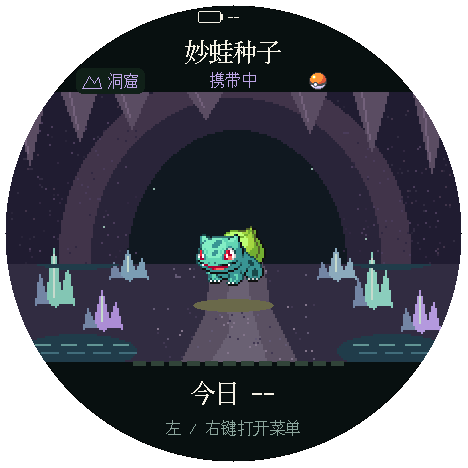
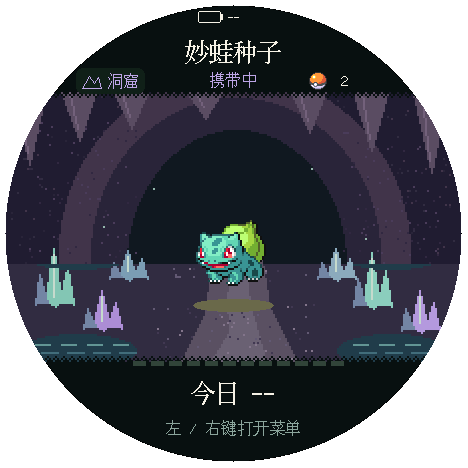
docs(readme): 截图与说明更新到当前版本
七张截图改用 2026-11-02 的 649 种版本主机渲染：对战显示角色提示圈与音符轨道，投球显示剩余球位，首页与路线显示已捕获种数，图鉴编号为 001／649。中英文 README 同步更新玩法要点、替代文字与画面来源表，并链接新的对战与投球文档。

Changed region(s): [[0.0897, 0.7479, 0.8974, 0.7778], [0.1197, 0.1795, 0.8974, 0.2094], [0.4188, 0.4786, 0.5684, 0.5983]]

diff --git a/README.md b/README.md
@@ -7,7 +7,7 @@
 带着伙伴走路，遇见宝可梦，用节奏对战和投球完成捕捉。<br>
 运行在 M5Stack StopWatch（C152）圆屏上的离线步行探险。
 
-<img src="docs/images/readme/home.png" width="360" alt="圆屏首页：妙蛙种子站在森林路线上，标注携带中，下方为今日 4 步。主机 Runtime/M5GFX 渲染，不是实机拍摄。">
+<img src="docs/images/readme/home.png" width="360" alt="圆屏首页：妙蛙种子站在森林路线上，标注携带中，球图标旁显示已捕获 0 种，下方为今日 4 步。主机 Runtime/M5GFX 渲染，不是实机拍摄。">
 
 [开始使用](#开始使用) · [桌面模拟](#桌面模拟) · [构建和烧录](#构建和烧录) · [开发指南](docs/development.md) · [验证说明](docs/verification.md)
 
@@ -18,14 +18,14 @@
 ## 玩法
 
 - **走路探险**：森林、海边、洞窟三条路线，遭遇池各不相同。每走 200–500 步（随机）产生一次遭遇。
-- **节奏对战与捕捉**：按节拍攻击或躲避，胜利后最多投两球；精灵球不限量。成功捕获后该种永久退出遭遇池。
+- **节奏对战与捕捉**：提示圈圈住对手就按右键攻击，圈住伙伴就按左键躲避，底部轨道预告下一拍。胜利后最多投两球；精灵球不限量。成功捕获后该种永久退出遭遇池。
 - **伙伴培养**：一次携带一只，只有携带者获得培养步，达到条件后手动进化。
 - **图鉴**：自由浏览全国图鉴 1～649，涵盖关都、城都、丰缘、神奥与合众，动画为《黑／白》像素素材。
 
 <p align="center">
-  <a href="docs/images/readme/battle.png"><img src="docs/images/readme/battle.png" width="234" alt="圆屏对战：妙蛙种子对玛瑙水母，双方有生命格，提示右键攻击。主机 Runtime/M5GFX 渲染，不是实机拍摄。"></a>
-  <a href="docs/images/readme/throw.png"><img src="docs/images/readme/throw.png" width="234" alt="圆屏投球：玛瑙水母在瞄准圈中，提示按住蓄力、松手投球。主机 Runtime/M5GFX 渲染，不是实机拍摄。"></a>
-  <a href="docs/images/readme/viewer.png"><img src="docs/images/readme/viewer.png" width="234" alt="圆屏图鉴：编号 001／251 的妙蛙种子，属性为草、毒，显示当前拥有和预览进化。主机 Runtime/M5GFX 渲染，不是实机拍摄。"></a>
+  <a href="docs/images/readme/battle.png"><img src="docs/images/readme/battle.png" width="234" alt="圆屏对战：小火龙对皮卡丘，双方有生命格；红色提示圈圈住右侧的皮卡丘并向内收拢，底部轨道显示当前与下一拍的右向箭头，提示右键攻击。主机 Runtime/M5GFX 渲染，不是实机拍摄。"></a>
+  <a href="docs/images/readme/throw.png"><img src="docs/images/readme/throw.png" width="234" alt="圆屏投球：海边的爱心鱼，标题下两个球表示本场剩余两次，提示按住右键蓄力、松手投球。主机 Runtime/M5GFX 渲染，不是实机拍摄。"></a>
+  <a href="docs/images/readme/viewer.png"><img src="docs/images/readme/viewer.png" width="234" alt="圆屏图鉴：编号 001／649 的妙蛙种子，属性为草、毒，显示当前拥有和预览进化。主机 Runtime/M5GFX 渲染，不是实机拍摄。"></a>
   <br>
   <sub>节奏对战 · 蓄力投球 · 图鉴</sub>
 </p>
@@ -38,25 +38,26 @@
   <sub>森林 · 海边 · 洞窟</sub>
 </p>
 
-概率、进化费用、按键和存档规则见[使用指南](docs/usage.md)。账户与迁移见[玩法契约](docs/design/walking-progression.md)。
+对战与捕获概率见[对战与投球](docs/usage-battle.md)，进化费用、按键和存档规则见[使用指南](docs/usage.md)。账户与迁移见[玩法契约](docs/design/walking-progression.md)。
 
 <details>
 <summary>画面来源</summary>
 
-全部画面是 2026-10-29 的 251 种版本用主机 Runtime/M5GFX 离屏渲染的截图，不是 C152 实机拍摄，也不能当作实机帧率、观感或验收结果。点图片打开 468×468 原文件。物理圆屏为 466×466，当前 M5GFX 驱动报告 468×468；PNG 只保留圆屏内像素，圆外透明。
+全部画面是 2026-11-02 的 649 种版本用主机 Runtime/M5GFX 离屏渲染的截图，不是 C152 实机拍摄，也不能当作实机帧率、观感或验收结果。点图片打开 468×468 原文件。物理圆屏为 466×466，当前 M5GFX 驱动报告 468×468；PNG 只保留圆屏内像素，圆外透明。
 
 | 画面 | 渲染套件 | 截图 |
 | --- | --- | --- |
-| 首屏首页 | `test_home_render` | `home-today-complete-live`：今日 4 步来自测试中的模拟走路 |
-| 森林、海边、洞窟 | `test_home_render` | `home-scene-0`～`home-scene-2`：未校时，所以今日显示 -- |
-| 节奏对战、蓄力投球 | `test_adventure_render` | `battle`、`throw-active`：海边路线，对手为玛瑙水母 |
+| 首屏首页 | `test_home_render` | `home-today-complete-live`：今日 4 步来自测试中的模拟走路，尚未捕获 |
+| 森林、海边、洞窟 | `test_home_render` | `home-scene-0`～`home-scene-2`：未校时，所以今日显示 --；测试档已捕获 2 种 |
+| 节奏对战 | `test_battle_render` | `battle-idle`：海边路线，小火龙对皮卡丘，攻击提示 |
+| 蓄力投球 | `test_adventure_render` | `throw-ready-1`：海边路线，对手为爱心鱼，剩余两次 |
 | 图鉴 | `test_adventure_render` | `viewer-entry`：测试档中的初始伙伴 |
 
 电量处的 -- 是因为渲染时没有电池读数。以下命令生成当前版本的对应测试截图，输出到新的验收目录；不会自动替换本页保留的历史图片：
 
 ```bash
 rtk proxy mise exec -- python3 scripts/run_render_tests.py \
-  test_home_render test_adventure_render
+  test_home_render test_adventure_render test_battle_render
 ```
 
 </details>
@@ -119,6 +120,7 @@ rtk proxy mise exec -- pio device monitor -p /dev/cu.usbmodemXXXX --baud 115200
 2026-10-30 的 649 种固件曾在 C152 启动并重载存档；这次有限观察不代表 schema6 的完整设备验收已完成。当前主机检查、设备观察，以及真实计步、实体交互、RTC 保持、断电恢复和功耗的待验项，见[验证说明](docs/verification.md)。
 
 - [使用指南](docs/usage.md)：操作、捕捉、培养、日期与存档。
+- [对战与投球](docs/usage-battle.md)：提示圈、判定窗口、必杀、振动、投球概率与捕获练习。
 - [Usage guide (English)](docs/usage.en.md)：English version of the usage guide.
 - [桌面模拟指南](docs/simulator.md)：键鼠操作、独立存档与模拟边界。
 - [开发指南](docs/development.md)：环境、素材生成、测试与模块职责。

diff --git a/README.en.md b/README.en.md
@@ -7,7 +7,7 @@
 Walk with your partner, encounter Pokémon, and catch them through rhythm battles and ball throws.<br>
 An offline walking adventure for the round screen of the M5Stack StopWatch (C152).
 
-<img src="docs/images/readme/home.png" width="360" alt="Round home screen: Bulbasaur stands on the forest route, marked as the carried partner, with 4 steps today shown below. Host Runtime/M5GFX render, not a device photo.">
+<img src="docs/images/readme/home.png" width="360" alt="Round home screen: Bulbasaur stands on the forest route, marked as the carried partner, with 0 species caught beside the ball icon and 4 steps today shown below. Host Runtime/M5GFX render, not a device photo.">
 
 [Getting started](#getting-started) · [Desktop simulation](#desktop-simulation) · [Build and flash](#build-and-flash) · [Development guide (Chinese only)](docs/development.md) · [Verification notes (Chinese only)](docs/verification.md)
 
@@ -18,14 +18,14 @@ An offline walking adventure for the round screen of the M5Stack StopWatch (C152
 ## Gameplay
 
 - **Walking adventures**: Explore forest, coast, and cave routes, each with its own encounter pool. An encounter occurs every 200–500 steps (random).
-- **Rhythm battles and catching**: Attack or dodge to the beat. After winning, throw up to two balls; Poké Balls are unlimited. Catching a species permanently removes it from the encounter pool.
+- **Rhythm battles and catching**: When the cue circles the opponent, press the right button to attack; when it circles your partner, press the left button to dodge. A track at the bottom previews the next beat. After winning, throw up to two balls; Poké Balls are unlimited. Catching a species permanently removes it from the encounter pool.
 - **Partner training**: Carry one partner at a time. Only the carried partner earns training steps. Evolve it manually once it meets the requirements.
 - **Pokédex**: Freely browse National Pokédex entries 1–649 across Kanto, Johto, Hoenn, Sinnoh, and Unova, with animated pixel art from Pokémon Black and White.
 
 <p align="center">
-  <a href="docs/images/readme/battle.png"><img src="docs/images/readme/battle.png" width="234" alt="Round battle screen: Bulbasaur faces Tentacool, with health segments for both and a prompt to attack with the right button. Host Runtime/M5GFX render, not a device photo."></a>
-  <a href="docs/images/readme/throw.png"><img src="docs/images/readme/throw.png" width="234" alt="Round ball-throwing screen: Tentacool is inside the aiming ring, with a prompt to hold to charge and release to throw. Host Runtime/M5GFX render, not a device photo."></a>
-  <a href="docs/images/readme/viewer.png"><img src="docs/images/readme/viewer.png" width="234" alt="Round Pokédex screen: Bulbasaur, entry 001/251, with Grass and Poison types, ownership status, and an evolution preview. Host Runtime/M5GFX render, not a device photo."></a>
+  <a href="docs/images/readme/battle.png"><img src="docs/images/readme/battle.png" width="234" alt="Round battle screen: Charmander faces Pikachu, with health segments for both. A red cue circles Pikachu on the right and closes inward, and the bottom track shows right-pointing arrows for the current and next beat, prompting a right-button attack. Host Runtime/M5GFX render, not a device photo."></a>
+  <a href="docs/images/readme/throw.png"><img src="docs/images/readme/throw.png" width="234" alt="Round ball-throwing screen: Luvdisc on the coast, with two balls under the title for the two attempts left and a prompt to hold the right button to charge and release to throw. Host Runtime/M5GFX render, not a device photo."></a>
+  <a href="docs/images/readme/viewer.png"><img src="docs/images/readme/viewer.png" width="234" alt="Round Pokédex screen: Bulbasaur, entry 001/649, with Grass and Poison types, ownership status, and an evolution preview. Host Runtime/M5GFX render, not a device photo."></a>
   <br>
   <sub>Rhythm battles · Charged throws · Pokédex · Host Runtime/M5GFX renders, not device photos</sub>
 </p>
@@ -43,20 +43,21 @@ See the [usage guide](docs/usage.en.md) for probabilities, evolution costs, cont
 <details>
 <summary>Image sources</summary>
 
-All images are screenshots rendered offscreen with the host Runtime/M5GFX from the 251-species version on 2026-10-29. They are not C152 device photos and cannot establish on-device frame rate, visual quality, or acceptance results. Click an image to open the original 468×468 file. The physical round screen is 466×466; the current M5GFX driver reports 468×468. The PNGs retain only pixels inside the round screen, with transparency outside it.
+All images are screenshots rendered offscreen with the host Runtime/M5GFX from the 649-species version on 2026-11-02. They are not C152 device photos and cannot establish on-device frame rate, visual quality, or acceptance results. Click an image to open the original 468×468 file. The physical round screen is 466×466; the current M5GFX driver reports 468×468. The PNGs retain only pixels inside the round screen, with transparency outside it.
 
 | Screen | Render suite | Screenshot |
 | --- | --- | --- |
-| Initial home screen | `test_home_render` | `home-today-complete-live`: the 4 steps today come from simulated walking in the test |
-| Forest, coast, cave | `test_home_render` | `home-scene-0`–`home-scene-2`: today's count shows -- because the clock is not set |
-| Rhythm battle, charged throw | `test_adventure_render` | `battle`, `throw-active`: coast route, facing Tentacool |
+| Initial home screen | `test_home_render` | `home-today-complete-live`: the 4 steps today come from simulated walking in the test; nothing caught yet |
+| Forest, coast, cave | `test_home_render` | `home-scene-0`–`home-scene-2`: today's count shows -- because the clock is not set; the test save has caught 2 species |
+| Rhythm battle | `test_battle_render` | `battle-idle`: coast route, Charmander against Pikachu, attack cue |
+| Charged throw | `test_adventure_render` | `throw-ready-1`: coast route, facing Luvdisc, two attempts left |
 | Pokédex | `test_adventure_render` | `viewer-entry`: the starter partner in the test save |
 
 The battery display shows -- because no battery reading was available during rendering. This command generates the corresponding test screenshots for the current version in a new verification directory. It does not replace the historical images on this page:
 
 ```bash
 rtk proxy mise exec -- python3 scripts/run_render_tests.py \
-  test_home_render test_adventure_render
+  test_home_render test_adventure_render test_battle_render
 ```
 
 </details>
